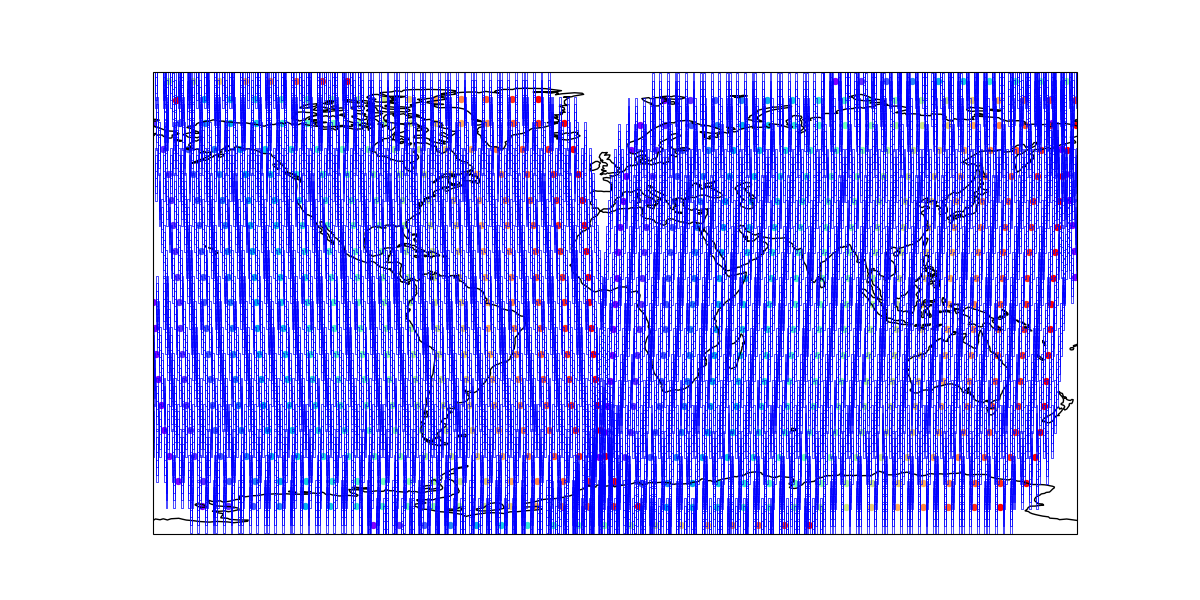
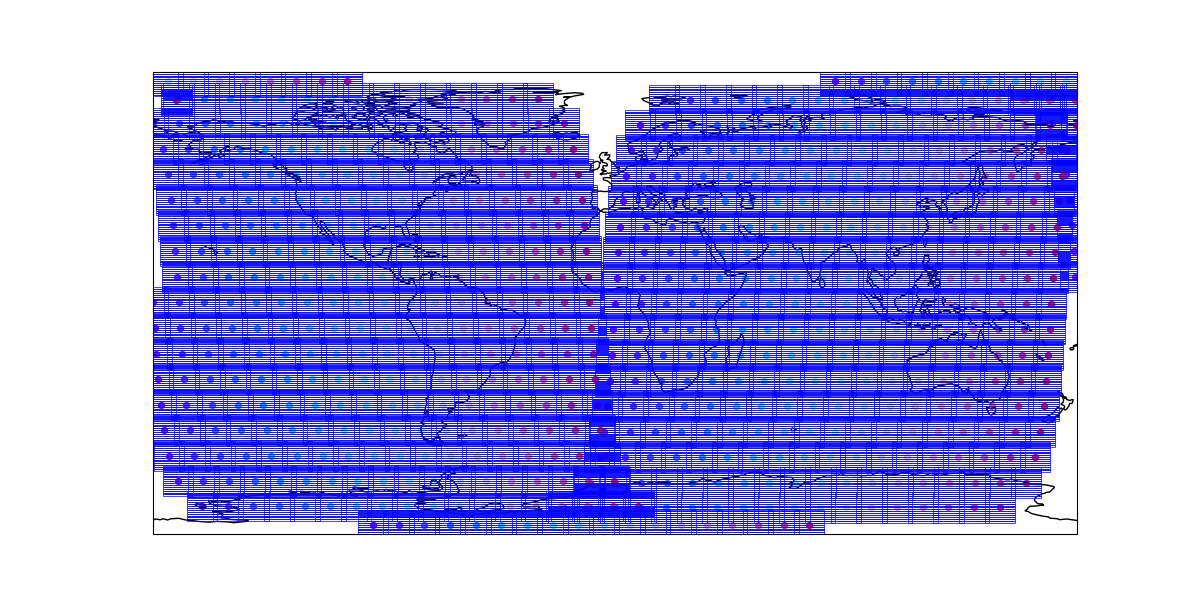
added beam characteristics

diff --git a/LEOEnvironment.py b/LEOEnvironment.py
@@ -21,9 +21,6 @@ from shapely.geometry import box
 ###############################################################################
 #################################    Simpy    #################################
 ###############################################################################
-
-receivedDataBlocks = []
-createdBlocks = []
 seed = np.random.seed(1)
 
 upGSLRates = []
@@ -136,15 +133,23 @@ class OrbitalPlane:
 
 class Beam:
     def __init__(self, center_lat, center_lon, width_deg, height_deg, 
-                 load=0, capacity=0, snr=0, id=None):
+                 load=0, capacity=0, snr=0, id=None, constellation = 'OneWeb'):
         self.center_lat = center_lat
         self.center_lon = center_lon
         self.width_deg = width_deg
         self.height_deg = height_deg
         self.load = load
-        self.capacity = capacity
         self.snr = snr
         self.id = id  # Optional: unique identifier for the beam
+        if constellation == 'OneWeb': 
+            self.max_capacity = 7.2 #Gbps 
+            self.max_ds_speed = 150 #Mbps 
+            self.max_us_speed = 30 #Mbps 
+            self.max_latency = 70 #Mbps 
+            self.bw = 250e6 #Mhz 
+            self.frequency = 15 #GHz 
+            self.Pt = 40 #dBm - transmit power 
+            self.Gt = 30 #dBi - antenna gain 
 
     def get_footprint(self):
         min_lon = self.center_lon - self.width_deg / 2
@@ -366,6 +371,19 @@ class Satellite:
         else:
             self.longitude = 0
         self.update_beams()
+
+class Aircraft: 
+    def __init__(self, ID, latitude, longitude, altitude, env):
+        self.ID = ID
+        self.latitude = latitude  # in degrees
+        self.longitude = longitude  # in degrees
+        self.altitude = altitude  # in meters
+        self.Gr = 5 #dBi - Gain of the aircraft antenna
+        self.env = env  # Simpy environment
+
+    def __repr__(self):
+        return 'Aircraft ID: {}, Latitude: {}, Longitude: {}, Altitude: {}'.format(
+            self.ID, self.latitude, self.longitude, self.altitude)
 
 # A single cell on earth
 class Cell:
@@ -601,12 +619,16 @@ def create_Constellation(specific_constellation, env):
     elif specific_constellation =="OneWeb":
         print("Using OneWeb constellation design")
         P = 18
-        N = 648	
+        N = 648	# Number of satellites 
         N_p = int(N/P)
         height = 1200e3
         inclination_angle = 86.4
         Walker_star = True
         min_elevation_angle = 30
+        orbital_speed = 27000 #km/h 
+        orbit_duration = 109 #minutes 
+        orbits_per_day = 13 
+
 
     elif specific_constellation =="Starlink":			# Phase 1 550 km altitude orbit shell
         print("Using Starlink constellation design")
